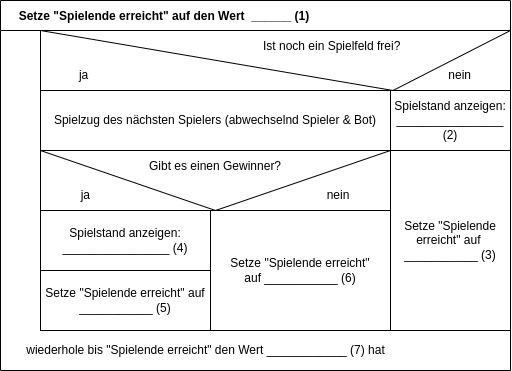
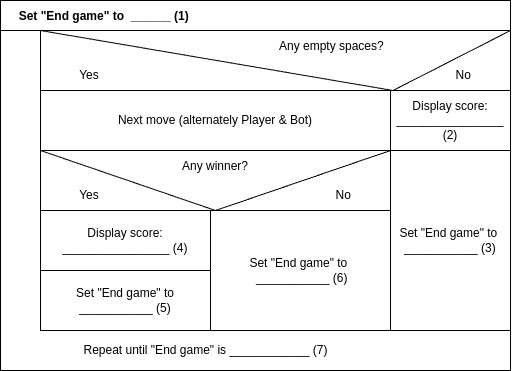
[WB] add new images for Task 1, translate Task 3

diff --git a/README.md b/README.md
@@ -25,28 +25,28 @@ A Nassi-Shneiderman-Diagram or **Struktogramm** is a Diagram to show Program dra
 
 A Struktogramm contains the following structural blocks, that are nested inside or combined with each other:
 
-### Instruction
-![](https://upload.wikimedia.org/wikipedia/commons/1/1e/LineareAnw.png)
+### Process
+![](https://upload.wikimedia.org/wikipedia/commons/a/a2/Process_Block2.jpg)
 
-Every Instruction (or Chain of Commands), a Program should do, are written inside a rectangle Block.
+Every Process (or Chain of Commands), a Program should do, are written inside a rectangle Block.
 
 ### If-Case
-![](https://upload.wikimedia.org/wikipedia/commons/7/73/ZweifAusw.png)
+![](https://upload.wikimedia.org/wikipedia/commons/7/79/Two-Way_Branch.jpg)
 
 If the Condition is met (true), Instruction 1 will run.
 
 If the Condition isn't met (false), Instruction 2 will run. Instruction Blocks can also have multiple Instructions.
 
 ### Loop with exit condition (While-Loop)
-![](https://upload.wikimedia.org/wikipedia/commons/d/da/FussgesteuerteSchleife.png)
+![](https://upload.wikimedia.org/wikipedia/commons/b/be/Test_Last.jpg)
 
 It needs at least one loop, because the Repeat condition is checked **after** one loop. If this is true, the loop continues.
 
-### complete Struktogram for Tic-Tac-Toe Game
+### Complete Struktogram for Tic-Tac-Toe Game
 
 We started creating a Struktogram for the Tic-Tac-Toe Game, but your future trainer Malte isn't sure about the contents from the parts `(1), (2), (3), (4), (5), (6), (7)`.
 
-*Solve this Task and put your Solution into your E-Mail, that you will send us.*
+*Solve this Task and put your Solution into your E-Mail, that you will send to us.*
 
 ![tic-tac-toe-struktogramm](./docs/tic-tac-toe-struktogramm.jpg)
 
@@ -77,35 +77,35 @@ We want to see and work together on Your sourcecode. To freely share sourcecode,
 - [ ] Öffne dort nun diese Anleitung. Klicke dazu mit einem Rechtsklick auf die Datei `REDAME.md` und dann auf `Open Preview`.
 - [ ] Fahre mit der Anleitung in Deiner Gitpod-Programmierumgebung fort.
 
-## 3.) Copyright anpassen
-Deine Tic-Tac-Toe Webanwendung besteht aus einem Frontend und einem Backend.  
-Als Frontend verwenden wir das Tool `Swagger` mit dem man Schnittstellen mit einer grafischen Oberfläche einfach ausprobieren kann.  
-Swagger haben wir Dir bereits im Browserfenster geöffnet.  
-Als Backend verwenden wir eine [PHP-Anwendung](https://www.php.net/manual/en/) auf Basis des Frameworks [Laravel](https://laravel.com/docs/9.x).  
+## 3.) Change Copyright
+Your Tic-Tac-Toe Webapp consists of a Frontend and Backend Part.  
+As Frontend, we use a Tool called `Swagger`, so we can try out API's with a graphical Interface.
+Swagger is already open, as you open GitPod's Web-IDE.
+As Backend, we use a [PHP-App](https://www.php.net/manual/en/), based on the Framework [Laravel](https://laravel.com/docs/9.x).  
 
-Wir haben eine Funktion vorbereitet, die das Copyright des Spiels ausgibt. © 
+We have prepared a function, that displays this Game's Copyright. ©
 
-**Bitte probiere die API-Methode zur Anzeige des Copyrights in Swagger aus:**
-- [ ] Klicke in Swagger dazu auf `/copyright`.
-- [ ] Klicke auf den Button `Try it out`.
-- [ ] Sende die Anfrage indem Du auf `Execute` drückst.
-- Du siehst im Abschnitt `Response body` die Antwort mit dem aktuellen Copyright.
+**Try this API-Method for display the Game's Copyright:**
+- [ ] In Swagger, click on `/copyright`.
+- [ ] Click on the Button `Try it out`.
+- [ ] Send this Request by clicking on `Execute`.
+- You can see the answer with the current Copyright at `Response body`.
 
-✍🏼 **Verändere das Copyright:**  
-- [ ] Öffne die Datei [app/app/App/Http/Controllers/CopyrightController.php](app/app/App/Http/Controllers/CopyrightController.php) in Gitpod.
-- [ ] In Zeile `18` wird das Copyright als String gespeichert.
-- [ ] Benutze den in der `CopyrightController.php` verlinkten ASCII Generator um Dein persönliches Copyright zu erstellen.
-- [ ] Ersetze das Copyright `By MÜNSMEDIA GmbH` durch Dein eigenes Copyright.
-- [ ] Probier Dein neues Copyright mit Swagger aus!
-- [ ] Du musst Deine Änderung nun noch speichern - **committen** genannt (siehe nächster Abschnitt).
+✍🏼 **Change Copyright:**  
+- [ ] Open File [app/app/App/Http/Controllers/CopyrightController.php](app/app/App/Http/Controllers/CopyrightController.php) in Gitpod.
+- [ ] At Line `18` the Copyright is saved as a string.
+- [ ] Use the ASCII Generator linked in `CopyrightController.php` to create your personal Copyright.
+- [ ] Replace our Copyright `By MÜNSMEDIA GmbH` by your own Copyright.
+- [ ] Try your new Copyright with Swagger!
+- [ ] You need to save your changes, also named - **commit** (next section).
 
-#### ✅ Commit erstellen:
-  - Klicke dazu in der linken Seitenleiste auf den Reiter `Source Control` oder drücke die Tasten <kbd>Strg</kbd>+<kbd>⇧</kbd>+<kbd>G</kbd> gleichzeitig.
-  - Gib oben eine Textnachricht ein, die Deine Änderung bestmöglich beschreibt. **Bitte schreibe die Nachricht auf Englisch**.
-  - Speichere die Nachricht mit <kbd>Strg</kbd><kbd>⏎</kbd>
-  - Klicke nun im Dialog auf `Yes`, um alle Deine Änderungen zum Commit hinzuzufügen.
-  - **Klicke den Button `Sync changes`** um Deine Änderungen auf GitHub hochzuladen. Hier must Du ebenfalls mit `OK` bestätigen.
-  - 🎉 Du hast Deinen ersten Git-Commit soeben gemacht! 🎊
+#### ✅ Create Commit:
+  - On the left Side, click on Tab `Source Control` or you can press the keys <kbd>Strg</kbd>+<kbd>Shift</kbd>+<kbd>G</kbd> together.
+  - Above, you can type a message, to describe your changes as detailed and meaningful as possible. **Please write your message in English, even if you are a native german speaker**.
+  - Save your message with <kbd>Strg</kbd><kbd>⏎</kbd>
+  - At the next Dialog, click on `Yes`, to add all your changes to your Commit.
+  - **Click on the Button `Sync changes`**, to upload your changes to GitHub. Confirm with `OK`.
+  - 🎉 You have done your first Git-Commit! 🎊
 
 ## 4.) Methode /play schreiben
 Noch kannst Du nicht gegen den vom MÜNSMEDIA-Team programmierten Bot spielen.  
